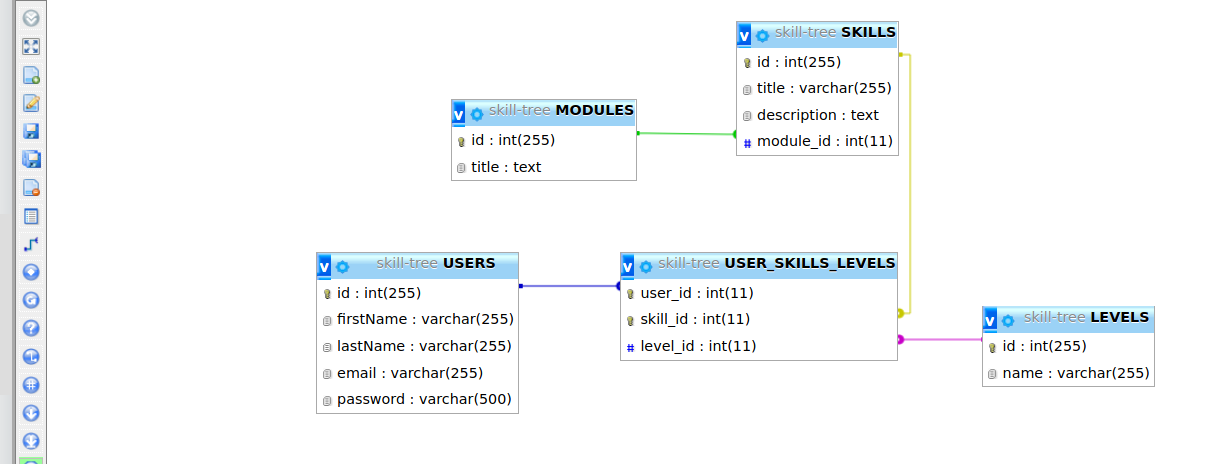
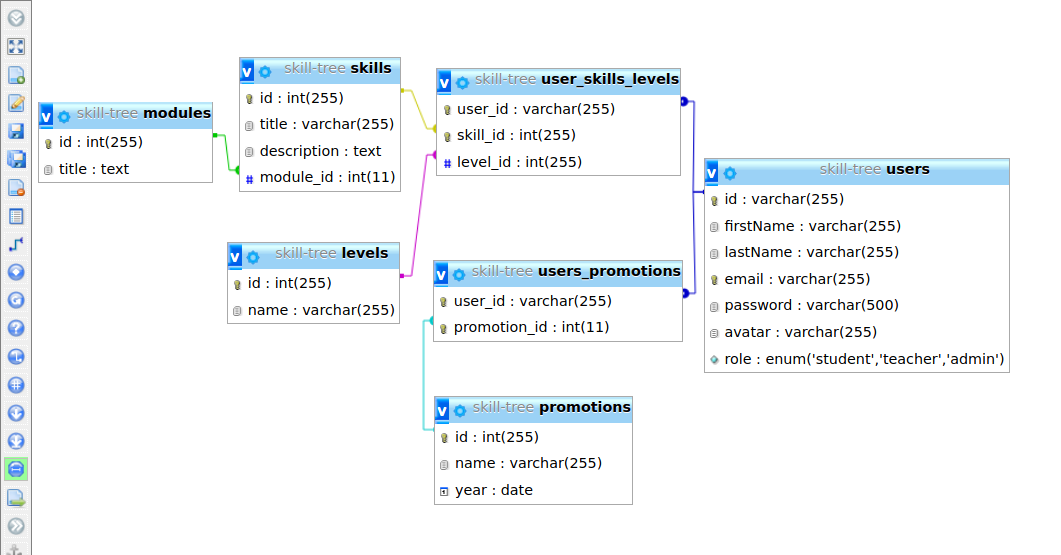
change conception and readme

Changed region(s): [[0.0, 0.0, 0.9642, 1.0], [0.8087, 0.7845, 0.9642, 0.8147], [0.4976, 0.3621, 0.5287, 0.3922]]

diff --git a/Conception/Skills-tree.html b/Conception/Skills-tree.html
@@ -47,6 +47,19 @@
     <span class='normal'>password</span>
   )
 </div>
+<div>
+  <span class='relation'>HAVE</span> (
+    <span class='foreign primary'>id</span>,
+    <span class='foreign primary'>id.1</span>
+  )
+</div>
+<div>
+  <span class='relation'>PROMOTIONS</span> (
+    <span class='primary'>id</span>,
+    <span class='normal'>name</span>,
+    <span class='normal'>year</span>
+  )
+</div>
 </div>
 </body>
 </html>

diff --git a/README.MD b/README.MD
@@ -1,27 +1,33 @@
 # SKILL TREE 
 
+
+:clipboard: Description
+
 Skill tree allows you to visualize the list of skills to be acquired for each module of the Application Designer Developer referential.
 For users registering the Skill tree serves to visualize his level for each skill and to compare with other users of the same promotion.
 ---
 ## TODO
 
 #### Design the database:
-* [ ] create the MCD 
-* [ ] create the MPD
+* [x] create the MCD 
+* [x] create the MPD
 
 #### Designing the application : 
-* [ ] make wireframe/ model
+* [x] make wireframe/ model
 
 #### Set up the database:
-* [ ] create the database with phpmyadmin
+* [x] create the database with phpmyadmin
 
 #### Develop the backend part:
-* [ ] create the server
-* [ ] database connection
+* [x] create the server
+* [x] database connection
 * [ ] create the component modules
 * [ ] create the skills component
-* [ ] create user component
-* [ ] create the authentication component
+* [x] create user component
+* [x] creat query with user id
+* [x] create the authentication in user component
+* [ ] create query for take all users by promotion
+* [ ] create query for take all users by promotion and level
 
 #### Develop the front end:
 * [ ] create the homepage
@@ -36,6 +42,8 @@ For users registering the Skill tree serves to visualize his level for each skil
 - LASTNAME
 - EMAIL
 - PASSWORD
+- AVATAR
+- ROLE
 
 #### MODULES
 - ID
@@ -55,3 +63,12 @@ For users registering the Skill tree serves to visualize his level for each skil
 - USER_ID
 - SKILL_ID
 - LEVEL_ID
+
+#### PROMOTIONS
+- ID
+- NAME
+- YEAR
+  
+#### USERS_PROMOTIONS
+- USER_ID
+- PROMOTION_ID
